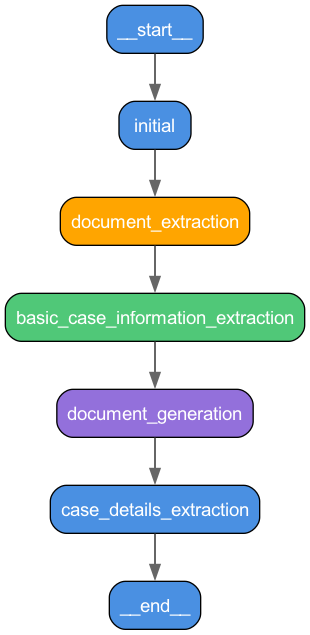
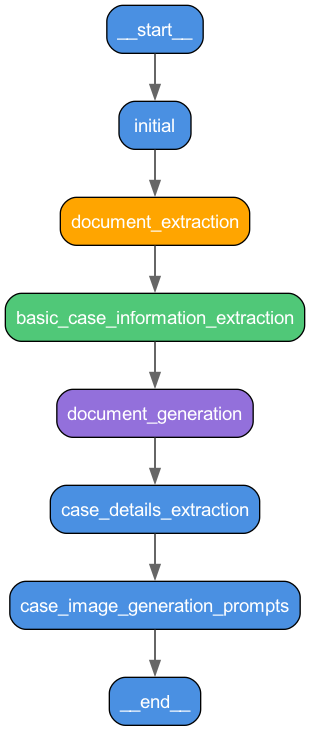
feat(docs): update readme with instructions for setup

diff --git a/aiq/mediation/register.py b/aiq/mediation/register.py
@@ -271,18 +271,9 @@ async def case_generation_workflow(config: MediationWorkflowConfig, builder: Bui
                 )  # Mediator typically starts joint discussion
             return state
 
-        # # Additional validation for caucus phase
-        # if state.current_phase == PHASE_CAUCUS:
-        #     if not state.is_in_caucus or not state.caucus_party:
-        #         # Initialize caucus if not already done
-        #         state.is_in_caucus = True
-        #         state.caucus_party = Party(name="REQUESTING_PARTY")
-        #         next_speaker = "MEDIATOR"  # Start with mediator
-        #     elif next_speaker not in ["MEDIATOR", state.caucus_party.name]:
-        #         next_speaker = "MEDIATOR"  # Default to mediator if invalid choice
-
         # Handle conclusion phase
         if state.current_phase == PHASE_CONCLUSION:
+            # Strict sequence: requesting party -> responding party -> mediator -> end
             if not state.requesting_party_conclusion:
                 state.next_speaker_candidate = Party(name="REQUESTING_PARTY")
             elif not state.responding_party_conclusion:
@@ -290,6 +281,7 @@ async def case_generation_workflow(config: MediationWorkflowConfig, builder: Bui
             elif not state.mediator_conclusion_settlement:
                 state.next_speaker_candidate = Party(name="MEDIATOR")
             else:
+                # All conclusions are complete, end the mediation
                 state.current_phase = PHASE_ENDED
             return state
 
@@ -301,15 +293,11 @@ async def case_generation_workflow(config: MediationWorkflowConfig, builder: Bui
         ):
             # Transition to next phase
             if state.current_phase == PHASE_JOINT_DISCUSSION:
-                # Temporary: skip caucus phase
-                #     state.current_phase = PHASE_CAUCUS
-                #     state.is_in_caucus = True
-                #     state.caucus_party = Party(name="REQUESTING_PARTY")
-                # elif state.current_phase == PHASE_CAUCUS:
                 state.current_phase = PHASE_NEGOTIATION
                 state.is_in_caucus = False
                 state.caucus_party = None
             elif state.current_phase == PHASE_NEGOTIATION:
+                state.next_speaker_candidate = Party(name="MEDIATOR")
                 state.current_phase = PHASE_CONCLUSION
             elif state.current_phase == PHASE_CONCLUSION:
                 state.current_phase = PHASE_ENDED
@@ -360,6 +348,7 @@ async def case_generation_workflow(config: MediationWorkflowConfig, builder: Bui
             )
         elif state.current_phase == PHASE_CONCLUSION:
             content = await generate_mediator_conclusion(llm, state)
+            state.mediator_conclusion_settlement = content
             summary = await generate_summary(
                 llm, content, "This is a mediator's response during conclusion."
             )
@@ -418,6 +407,7 @@ async def case_generation_workflow(config: MediationWorkflowConfig, builder: Bui
             )
         elif state.current_phase == PHASE_CONCLUSION:
             content = await generate_conclusion_requesting_party(llm, state)
+            state.requesting_party_conclusion = content
             summary = await generate_summary(
                 llm, content, "This is a requesting party's response during conclusion."
             )
@@ -473,6 +463,7 @@ async def case_generation_workflow(config: MediationWorkflowConfig, builder: Bui
             )
         elif state.current_phase == PHASE_CONCLUSION:
             content = await generate_conclusion_responding_party(llm, state)
+            state.responding_party_conclusion = content
             summary = await generate_summary(
                 llm,
                 content,

diff --git a/aiq/case_generation/register.py b/aiq/case_generation/register.py
@@ -474,9 +474,14 @@ async def case_generation_workflow(
 
             Example format:
             [
-                "A professional business meeting room with two executives in formal suits discussing documents",
-                "A modern office building exterior with corporate signage",
-                "A courtroom with judge's bench and legal professionals in formal attire"
+                "A tense boardroom meeting with executives in tailored suits, one group seated at a long mahogany table reviewing legal documents, while others stand presenting charts on a large LED display, natural light streaming through floor-to-ceiling windows",
+                "A high-tech manufacturing facility with automated assembly lines, workers in safety gear monitoring quality control stations, and digital displays showing production metrics, capturing the industrial scale of operations",
+                "A modern courtroom with a judge in black robes presiding from an elevated bench, lawyers in formal attire presenting evidence on large screens, and a diverse jury panel seated in the gallery, all under dramatic lighting",
+                "A corporate headquarters lobby featuring a grand staircase, reception desk with security personnel, and digital displays showing company achievements, with professionals in business attire entering and exiting",
+                "A secure document storage room with rows of filing cabinets, a large digital archive system, and a team of paralegals carefully organizing and digitizing case materials under bright task lighting",
+                "A mediation room with a circular table, neutral decor, and comfortable seating for all parties, featuring a professional mediator facilitating discussion while participants review settlement documents",
+                "An outdoor construction site with heavy machinery, safety barriers, and workers in hard hats inspecting blueprints, showing the physical location central to the dispute",
+                "A sophisticated data center with server racks, monitoring stations, and IT professionals analyzing network security logs, representing the technological aspects of the case"
             ]"""
             ),
             HumanMessage(
@@ -497,8 +502,8 @@ async def case_generation_workflow(
             # Save the prompts to a JSON file
             case_dir = Path(config.data_dir) / state["case_id"]
             prompts_file = case_dir / "image_prompts.json"
-            with open(prompts_file, "w") as f:
-                json.dump(prompts, f, indent=2)
+            with open(prompts_file, "w", encoding='utf-8') as f:
+                json.dump(prompts, f, indent=2, ensure_ascii=False)
             logger.info(f"✅ Saved image prompts to {prompts_file}")
 
             return {**state, "image_prompts": prompts}
@@ -594,13 +599,13 @@ async def case_generation_workflow(
 
         # Save the case description to a markdown file
         output_file = case_dir / "initial_case_description.md"
-        with open(output_file, "w") as f:
+        with open(output_file, "w", encoding='utf-8') as f:
             f.write(output)
 
         # Save the documents to a JSON file
         documents_file = case_dir / "documents.json"
-        with open(documents_file, "w") as f:
-            json.dump(documents, f, indent=2)
+        with open(documents_file, "w", encoding='utf-8') as f:
+            json.dump(documents, f, indent=2, ensure_ascii=False)
 
         logger.info(f"💾 Saved case description to {output_file}")
         logger.info(f"💾 Saved documents to {documents_file}")

diff --git a/flux/main.py b/flux/main.py
@@ -115,5 +115,18 @@ if __name__ == "__main__":
         "Formal arbitration session with legal counsel present, mediator presiding, courtroom-style business setting"
     ]
 
+    test_prompts = [
+        "A tense boardroom meeting with executives from NovaTech Solutions (Lumina Republic) and Aether Industries (Zephyra Emirates), seated at a long table reviewing a disputed supply contract, with digital screens displaying delivery timelines and financial terms in LMD/ZED currency",
+        "A high-tech semiconductor manufacturing facility in Lumina Republic, workers in cleanroom suits inspecting advanced components on automated assembly lines, with signage indicating quality control checkpoints for the disputed shipments",
+        "A logistics hub with shipping containers labeled 'Zephyra Emirates' and 'Lumina Republic', customs officials reviewing documentation, while a team of auditors examines a third-party report highlighting component defects under bright overhead lighting",
+        "A corporate courtroom in Lumina Republic featuring a judge presiding over contractual disputes, lawyers from both firms presenting evidence on large screens showing payment records and delivery delay timelines, with a jury panel observing the proceedings",
+        "A quality assurance lab in Zephyra Emirates where engineers in white coats conduct tests on semiconductor components under microscopes, digital readouts displaying defect rates disputed by both parties, with a stack of audit reports nearby",
+        "A financial review meeting at NovaTech's headquarters featuring accountants analyzing payment discrepancies, spreadsheets showing withheld funds for delayed shipments, and a map highlighting supply chain routes between Lumina Republic and Zephyra Emirates",
+        "A mediation session in a neutral conference room with representatives from both companies seated around a circular table, legal advisors reviewing contract clauses related to force majeure exceptions, while a mediator facilitates discussion under soft lighting",
+        "A secure data center in Zephyra Emirates housing servers storing supply chain records, IT professionals accessing digital logs of shipment tracking and quality inspections, with encrypted files labeled 'contractual compliance audit' visible on monitors",
+        "A warehouse in Lumina Republic with forklifts loading damaged semiconductor shipments, workers documenting defects on inspection forms, and a sign indicating 'delayed deliveries - dispute pending', surrounded by stacks of contractual documentation",
+        "An international arbitration panel featuring legal experts from both jurisdictions reviewing a third-party audit report, with holographic displays showing component defect analysis and payment reconciliation charts in multiple currencies"
+    ]
+
     generated_files = generate_images(test_prompts)
 

diff --git a/README.md b/README.md
@@ -1,37 +1,118 @@
 # Mediation Simulator
 
-Mediation Simulator helps develop your mediation skills, powered by NVIDIA Agent Intelligence Toolkit. This project is my submission for the NVIDIA Agent Intelligence Toolkit Hackathon.
+Mediation Simulator helps develop your mediation skills, powered by NVIDIA Agent Intelligence Toolkit. This project is my submission for the [NVIDIA Agent Intelligence Toolkit Hackathon](https://developer.nvidia.com/agentiq-hackathon).
 
-![p](/flux/data/1747700517310.png)
+Mediation is a process where two parties in a dispute come together to resolve their differences. It is a process that is often used in business disputes, but it can be used in other disputes as well. This project was modeled after academic mediation competitions for law school students. The goal of these competitions is to simulate a mediation process and to help law students develop their mediation skills. These competitions use fictional case information and the students assume either the role or the requesting party or the role of the responding party.
 
-## Case Generation
+In Mediation Simulator, the entire process of mediation is performed by LLMs. There are four main components:
 
-```
-# add command
-```
+- **Case generation**: case facts and related documents are generated by a series of LLM calls
+- **Indexing documents**: documents are indexed in a vector store for retrieval during mediation
+- **Simulating mediation**: a mediation is simulated by a series of LLM calls
+- **Mediation viewer**: a viewer is used to view the mediation dialog in the web browser
 
+The case generation component is used to generate a case with a fictional dispute between two parties. The documents for each case are indexed and the parties are able to retrieve relevant documents during mediation. The mediation simulator is used to simulate a mediation process and the mediation viewer is used to view the mediation dialog.
 
-## Simulating Mediation for a Case
+![Mediation Simulator](/flux/data/1747700517310.png)
 
-```
-# add command
-```
+## Getting Started
 
-## Mediation Simulator Viewer
+This project requires Python 3.11 or 3.12 and `uv`, it has been tested on MacOS and Linux. Windows is currently not supported.
 
-```
-python -m http.server 8083
-```
+- Milvus vector store for indexing case documents
+- Phoenix for telemetry and tracing
+- An NVIDIA API key or a local LLM supporting the OpenAI API and tool calling
 
-Visit [http://[::]:8083/](http://[::]:8083/)
-
-## Milvus with docker compose
+## Set up Milvus with docker compose
 
 Milvus is used for indexing case documents and for parties to retrieve relevant documents during mediation.
 
 ```
 docker compose -f docker-compose.milvus.yml up
 ```
+
+## Set up Phoenix with docker compose
+
+Phoenix is used for telemetry and tracing.
+
+```
+docker compose -f docker-compose.phoenix.yml up
+```
+
+The URL for Phoenix is `http://localhost:6006`, this is used in the Agent Intelligence Toolkit configuration files.
+
+## Image generation and TTS
+
+Flux and Dia are used for image and voice generation but they are not required for the project to run.
+
+## NVIDIA Agent Intelligence Toolkit
+
+NVIDIA Agent Intelligence Toolkit code is located in [aiq/](aiq/). See the [README](aiq/README.md) in this directory for detailed instructions on how to set up an environment and install dependencies.
+
+## Case Generation
+
+Case generation runs the following workflow:
+
+![case_generation_workflow](aiq/case_generation_workflow.png)
+
+Generating a case is done by running the following command:
+
+```bash
+cd aiq
+aiq run --config_file configs/case-generation.yml --input ""
+```
+
+The output from this workflow will include a case ID:
+
+```
+Workflow Result:
+['qbsknaqs']
+```
+
+You can review the case information in the directory `aiq/data/{case_id}/`. You will find the following files:
+
+- initial_case_description.md
+- case_generation_state.yaml
+- documents/
+
+## Indexing the documents
+
+To index documents for all cases, run the following command from the `aiq` directory with the virtual environment activated:
+
+```bash
+python index.py
+```
+
+## Simulating Mediation for a Case
+
+Simulating mediation for a case is done by running the following command from the `aiq` directory with the virtual environment activated:
+
+```
+aiq run --config_file configs/mediation.yml --input "{case_id}"
+```
+
+The mediation workflow is a LangGraph graph that has four main components:
+
+- Clerk
+- Mediator
+- Requesting Party
+- Responding Party
+
+The clerk is responsible for determining the flow of conversation. It has some hardcoded rules that define the main stages of mediation, and within these phases LLM calls are used by the clerk agent to determine the next speaker.
+
+The mediator, requesting party and responding party engage in a conversation that is guided by their prompts. There are system prompts for each speaker for each phase of mediation. There is also a custom function used by each speaker for each phase of mediation that defines a dynamic prompt that brings in case information and a recent summary of the conversation.
+
+![Mediation Simulator](/aiq/mediation_workflow.png)
+
+## Mediation Simulator Viewer
+
+You can view the results of a mediation by running the following command from the root of the project:
+
+```
+python3 -m http.server 8083
+```
+
+Then visit [http://[::]:8083/?case_id={case_id}](http://[::]:8083/?case_id={case_id}) to view mediation dialog produced by the workflow.
 
 ## Image Generation with Flux
 
